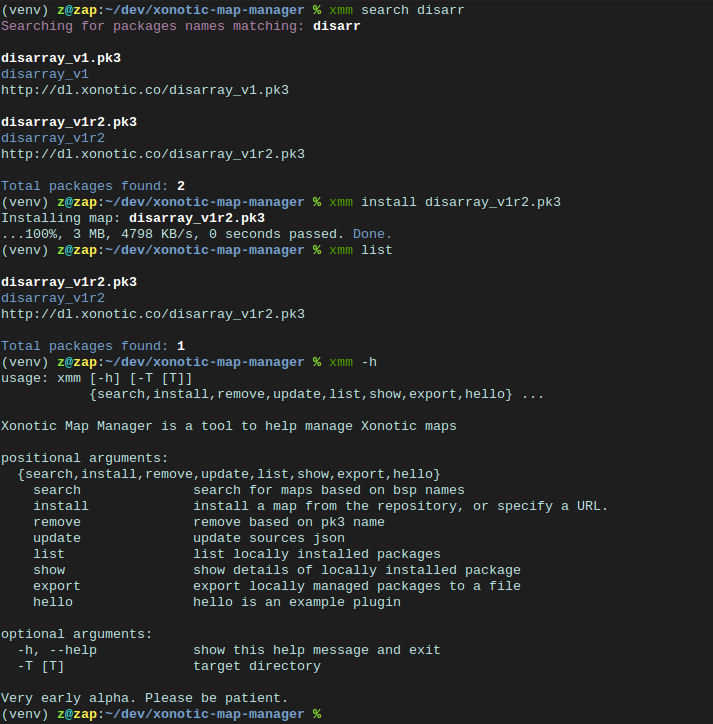
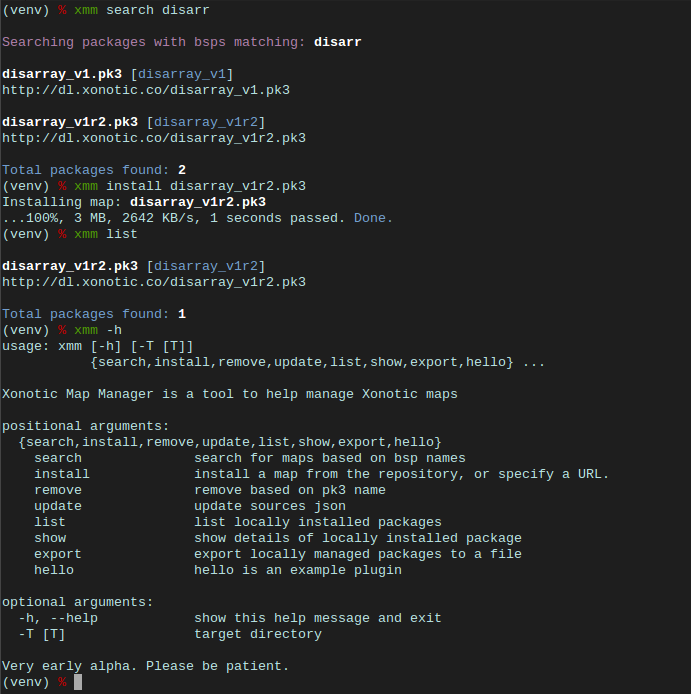
less wordy image

Changed region(s): [[0.0, 0.0, 0.8813, 0.9986]]

diff --git a/xmmc/xmm.py b/xmmc/xmm.py
@@ -5,7 +5,7 @@
 # TODO: Inspection of packages
 
 import argparse
-# import argcomplete # still figuring this out
+import argcomplete # still figuring this out
 import json
 import os
 import pickle
@@ -99,7 +99,7 @@ def search_maps(args):
     # Handle search string
     if args.string:
         search_string = args.string
-        print(bcolors.HEADER + 'Searching for packages names matching: ' + bcolors.ENDC + bcolors.BOLD + search_string + bcolors.ENDC)
+        print('\n' + bcolors.HEADER + 'Searching packages with bsps matching: ' + bcolors.ENDC + bcolors.BOLD + search_string + bcolors.ENDC)
     else:
         search_string = ''
 
@@ -274,8 +274,7 @@ def show_map_details(m, args):
 
     print('')
     if not args.long:
-        print(bcolors.BOLD + str(m['pk3']) + bcolors.ENDC)
-        print(bcolors.OKBLUE + bsp + bcolors.ENDC)
+        print(bcolors.BOLD + str(m['pk3']) + bcolors.ENDC + ' [' + bcolors.OKBLUE + bsp + bcolors.ENDC + ']')
         print(config['repo_url'] + str(m['pk3']))
     else:
         print('         pk3: ' + bcolors.BOLD + str(m['pk3']) + bcolors.ENDC)
@@ -292,8 +291,6 @@ def show_map_details(m, args):
 def get_package_db():
 
     global repo_data
-
-    package_store = {}
 
     package_store_file  = os.path.expanduser(config['package_store'])
 
@@ -409,7 +406,7 @@ def parse_args():
             parser_plugin = subparsers.add_parser(p[0], **p[1])
             parser_plugin.add_argument(*p[2], **p[3])
 
-    # argcomplete.autocomplete(parser)
+    argcomplete.autocomplete(parser)
 
     return parser.parse_args()
 
